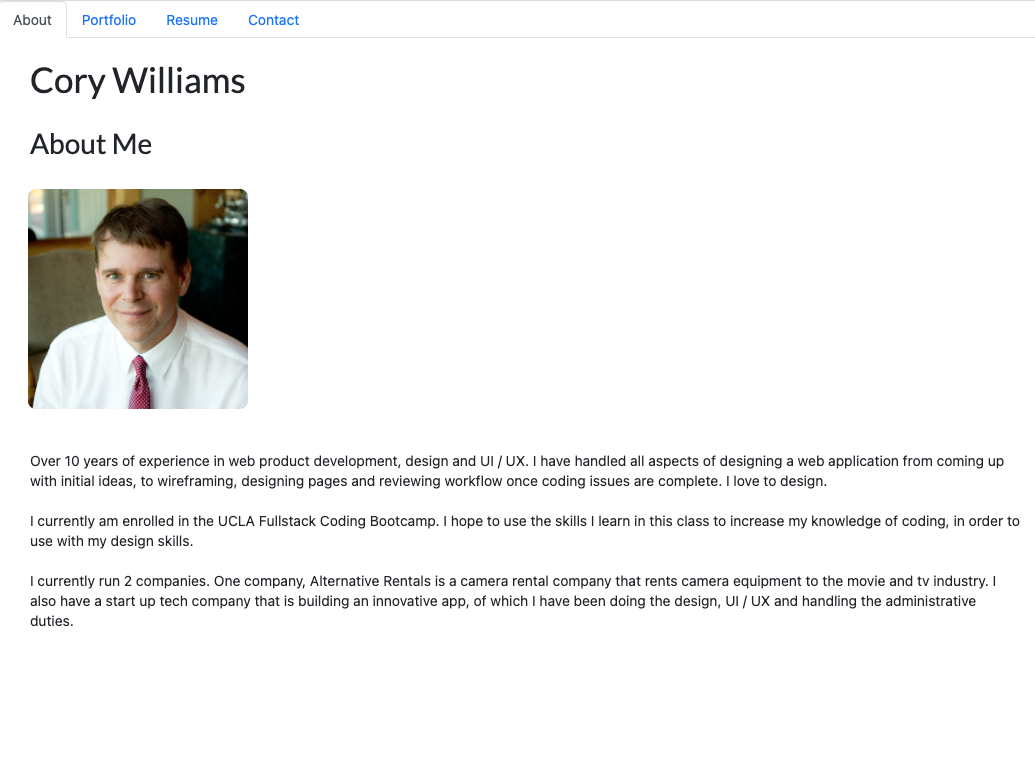
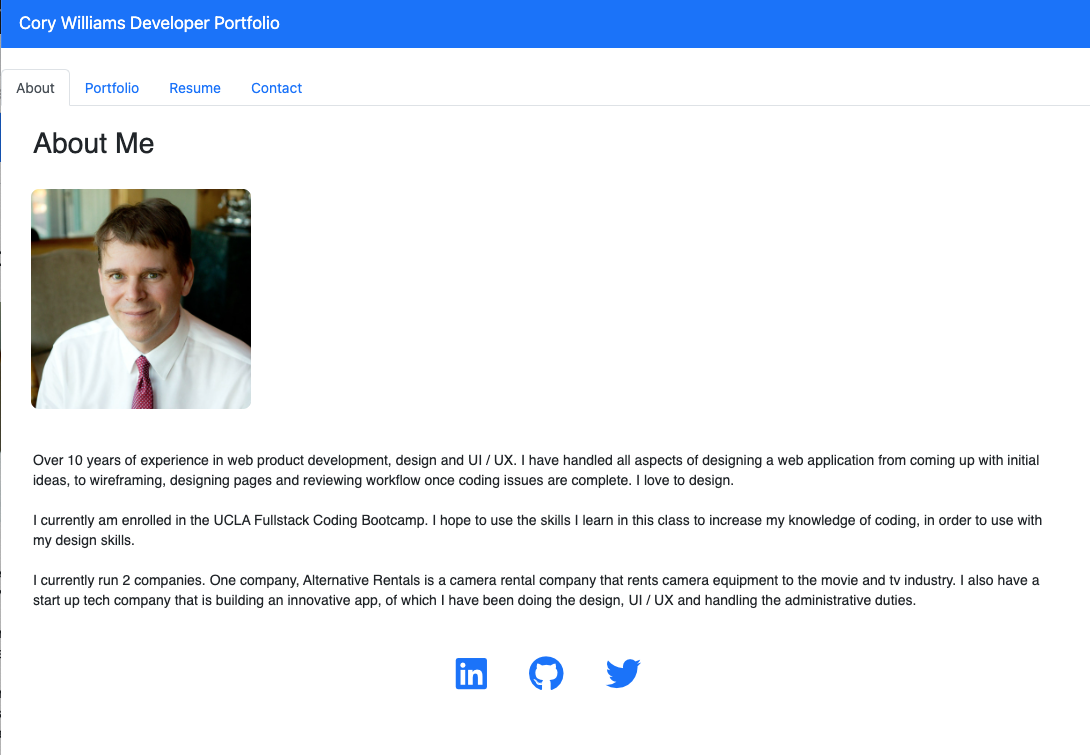
update README.md

diff --git a/src/components/pages/Resume.js b/src/components/pages/Resume.js
@@ -16,54 +16,57 @@ export default function Resume() {
       <br>
       </br>
       <div className='mainText'>
-          <h5 id="company">Alternative Rentals, Inc.</h5>
-          Founder & CEO
-          <br></br>
-          2004 - Current
-          <br></br>
-          <br></br>
-          Alternative Rentals rents camera equipment to films, television shows and more.
-          <br></br>
-          The company has facilities in Los Angeles, CA and Atlanta, GA.
-          <br></br>
-          Started company in 2004 and served as the CEO since the opening.
-          <br></br>
-          <br></br>
-          <br></br>
-       
-          <h5 id="company">BY Media, Inc.</h5>
-          Founder & CEO
-          <br></br>
-          2012 - Current
-          <br></br>
-          <br></br>
-          A start-up tech company that I began a number of years ago.
-          <br></br>
-          The company is building an innovative web applicaton set to launch in 2023.
-          <br></br>
-          I do all of the product design and UI / UX.
-          <br></br>
-          I come up with site features and review workflow, adding issues to GitHub.
-          <br></br>
-          Oversee a CTO and finances.
-          <br></br>
-          <br></br>
-          <br></br>
 
-          <h5 id="company">Full-Stack Developer</h5>
-          UCLA Full-Stack Coding Bootcamp
-          <br></br>
-          2022 - Current
-          <br></br>
-          <br></br>
-          In process of taking the UCLA Full-Stack Bootcamp course.
-          <br></br>
-          Learning all phases of full stack development for coding web applications.
-          <br></br>
-          Skills learned include HTML, CSS, JavaScript, Node.js, MySQL and React.
-          <br></br>
-           Learned GitHub for Version control. 
-          <br></br>
+        <h5 id="company">Full-Stack Developer</h5>
+        UCLA Full-Stack Coding Bootcamp
+        <br></br>
+        2022 - Current
+        <br></br>
+        <br></br>
+        In process of taking the UCLA Full-Stack Bootcamp course.
+        <br></br>
+        Learning all phases of full stack development for coding web applications.
+        <br></br>
+        Skills learned include HTML, CSS, JavaScript, Node.js, MySQL and React.
+        <br></br>
+          Learned GitHub for Version control. 
+        <br></br>
+        <br></br>
+        <br></br>
+
+        <h5 id="company">Alternative Rentals, Inc.</h5>
+        Founder & CEO
+        <br></br>
+        2004 - Current
+        <br></br>
+        <br></br>
+        Alternative Rentals rents camera equipment to films, television shows and more.
+        <br></br>
+        The company has facilities in Los Angeles, CA and Atlanta, GA.
+        <br></br>
+        Started company in 2004 and served as the CEO since the opening.
+        <br></br>
+        <br></br>
+        <br></br>
+      
+        <h5 id="company">BY Media, Inc.</h5>
+        Founder & CEO
+        <br></br>
+        2012 - Current
+        <br></br>
+        <br></br>
+        A start-up tech company that I began a number of years ago.
+        <br></br>
+        The company is building an innovative web applicaton set to launch in 2023.
+        <br></br>
+        I do all of the product design and UI / UX.
+        <br></br>
+        I come up with site features and review workflow, adding issues to GitHub.
+        <br></br>
+        Oversee a CTO and finances.
+        <br></br>
+        <br></br>
+        <br></br>
         
       </div>
     </div>

diff --git a/src/components/Header.js b/src/components/Header.js
@@ -6,7 +6,7 @@ function Header() {
   return (
   <>
     <Navbar bg="primary" variant="dark" >
-        <Navbar.Brand style={{marginLeft: '18px'}}>Cory Williams Developer Portfolio</Navbar.Brand>
+        <Navbar.Brand style={{marginLeft: '18px',}}>Cory Williams Developer Portfolio</Navbar.Brand>
     </Navbar>
   </>
   )

diff --git a/src/components/pages/Card.js b/src/components/pages/Card.js
@@ -1,4 +1,5 @@
 import React from 'react';
+import '../../styles/Main.css';
 import Projects from '../../projects.json';
 import { Card, Button, Col, CardGroup } from 'react-bootstrap';
 

diff --git a/src/components/Footer.js b/src/components/Footer.js
@@ -1,4 +1,5 @@
 import React from 'react';
+import '../styles/Main.css';
 
 function Footer() {
   return <footer className="d-flex justify-content-center my-5">

diff --git a/src/styles/Main.css b/src/styles/Main.css
@@ -1,5 +1,5 @@
-*/ {
-  font-family: Helvetica, arial, sans-serif;
+:root {
+  --primary-color: green;
 }
 
 h1 {
